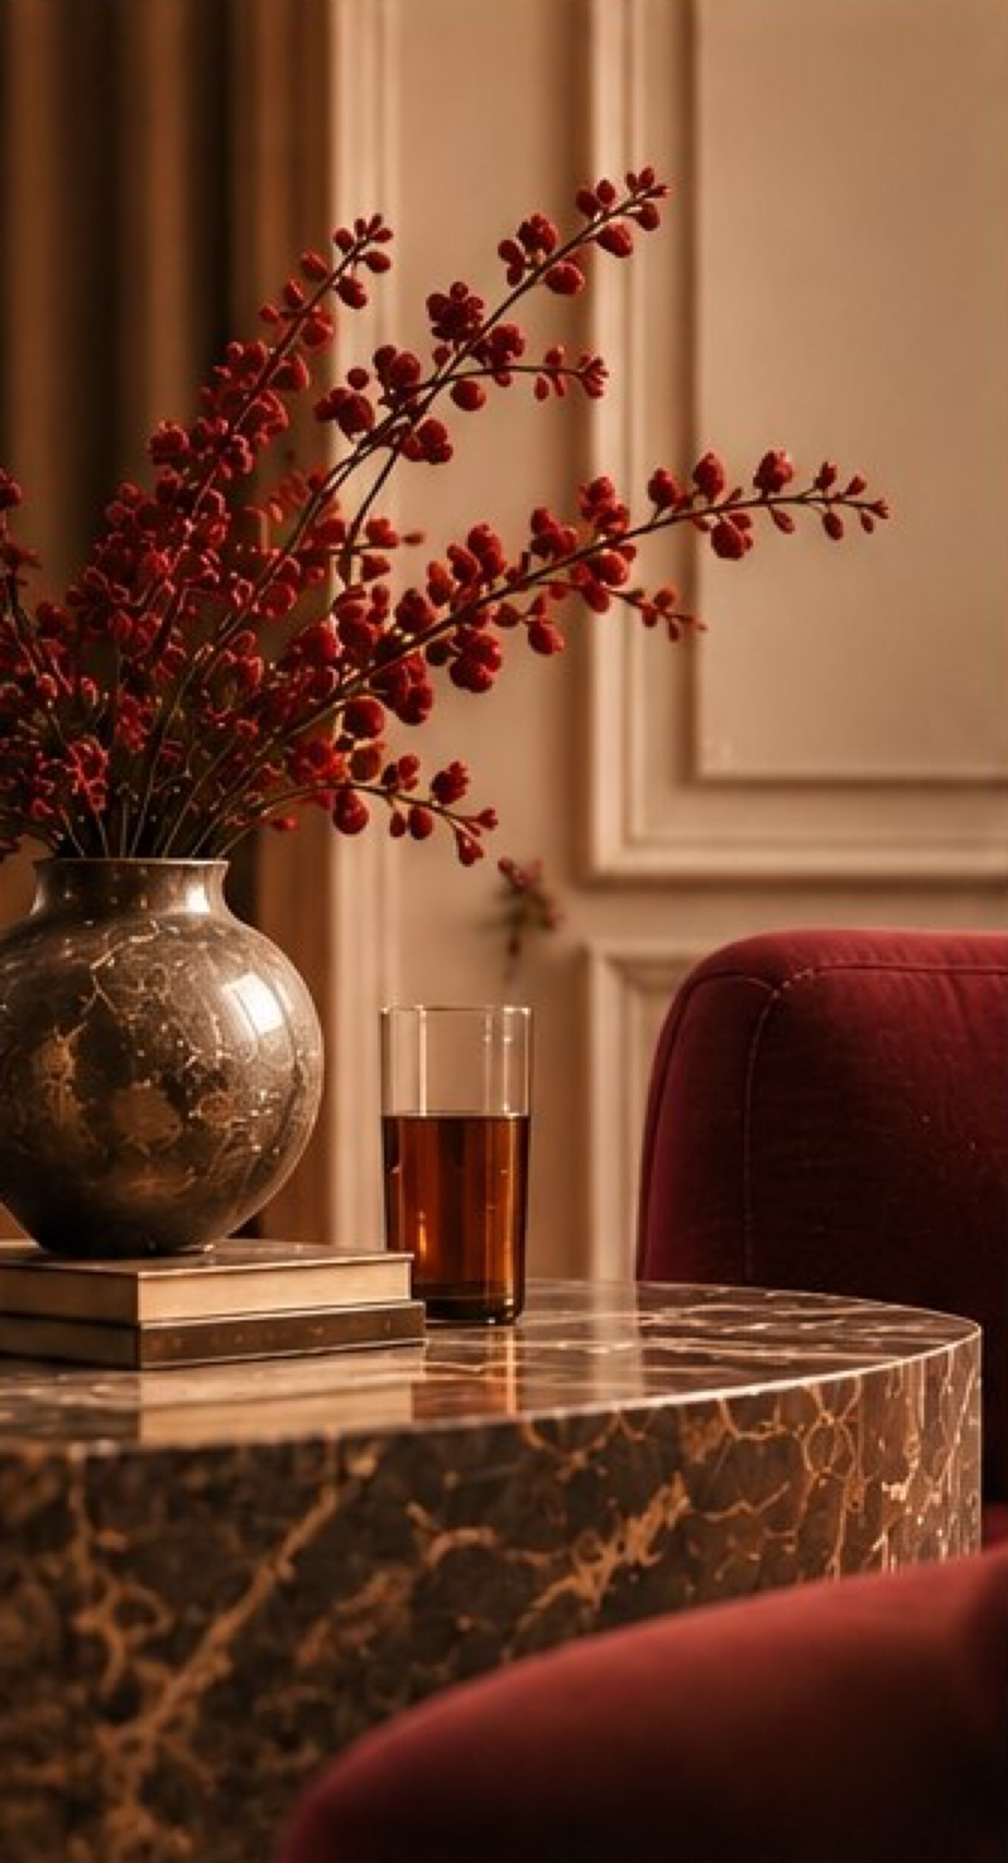
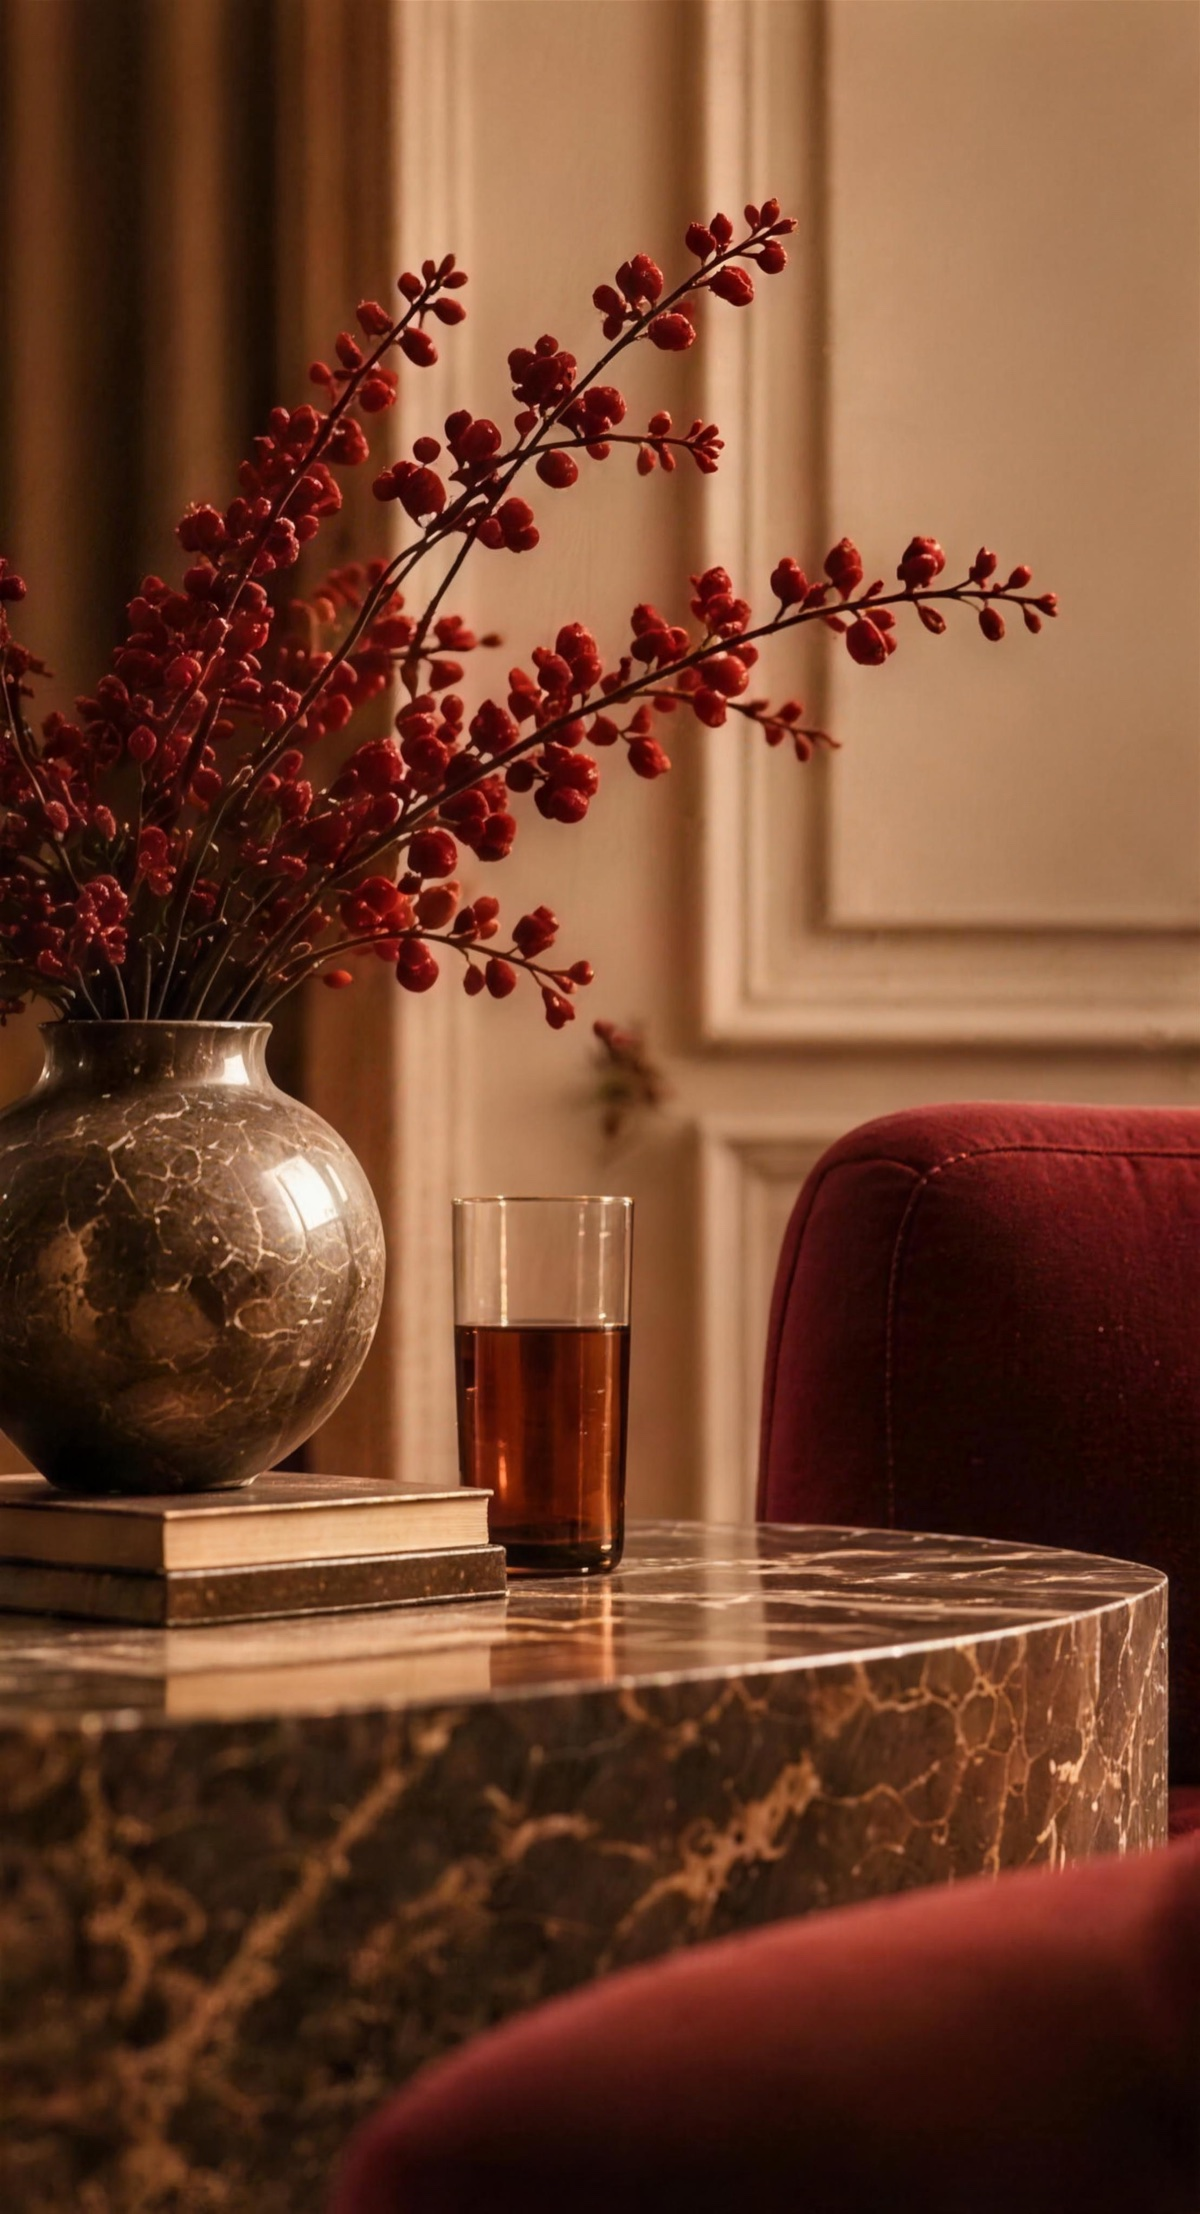
Replace Étapes photos with high-resolution versions

diff --git a/etapes.html b/etapes.html
@@ -53,15 +53,15 @@
       <div class="stages__media">
         <figure class="stages__figure stages__figure--tall" data-reveal="image">
           <picture>
-            <source srcset="img/etapes-vase.webp" type="image/webp">
-            <img src="img/etapes-vase.jpg" width="1008" height="1863"
+            <source type="image/webp" sizes="(min-width: 900px) 34vw, 50vw" srcset="img/etapes-vase-640.webp 640w, img/etapes-vase.webp 1200w">
+            <img src="img/etapes-vase.jpg" width="1200" height="2214"
                  alt="Branches de baies rouges dans un vase posé sur une table en marbre sombre, près d’un fauteuil en velours bordeaux.">
           </picture>
         </figure>
         <figure class="stages__figure" data-reveal="image">
           <picture>
-            <source srcset="img/etapes-chambre.webp" type="image/webp">
-            <img src="img/etapes-chambre.jpg" width="1008" height="963" loading="lazy"
+            <source type="image/webp" sizes="(min-width: 900px) 34vw, 50vw" srcset="img/etapes-chambre-640.webp 640w, img/etapes-chambre.webp 1200w">
+            <img src="img/etapes-chambre.jpg" width="1200" height="1142" loading="lazy"
                  alt="Chambre aux tons crème : tête de lit capitonnée, coussins bordeaux, applique en laiton et hortensias roses sur la table de chevet.">
           </picture>
         </figure>

diff --git a/en/etapes.html b/en/etapes.html
@@ -53,15 +53,15 @@
       <div class="stages__media">
         <figure class="stages__figure stages__figure--tall" data-reveal="image">
           <picture>
-            <source srcset="../img/etapes-vase.webp" type="image/webp">
-            <img src="../img/etapes-vase.jpg" width="1008" height="1863"
+            <source type="image/webp" sizes="(min-width: 900px) 34vw, 50vw" srcset="../img/etapes-vase-640.webp 640w, ../img/etapes-vase.webp 1200w">
+            <img src="../img/etapes-vase.jpg" width="1200" height="2214"
                  alt="Branches of red berries in a vase on a dark marble table, beside a burgundy velvet armchair.">
           </picture>
         </figure>
         <figure class="stages__figure" data-reveal="image">
           <picture>
-            <source srcset="../img/etapes-chambre.webp" type="image/webp">
-            <img src="../img/etapes-chambre.jpg" width="1008" height="963" loading="lazy"
+            <source type="image/webp" sizes="(min-width: 900px) 34vw, 50vw" srcset="../img/etapes-chambre-640.webp 640w, ../img/etapes-chambre.webp 1200w">
+            <img src="../img/etapes-chambre.jpg" width="1200" height="1142" loading="lazy"
                  alt="A bedroom in cream tones: tufted headboard, burgundy cushions, a brass wall light and pink hydrangeas on the bedside table.">
           </picture>
         </figure>
